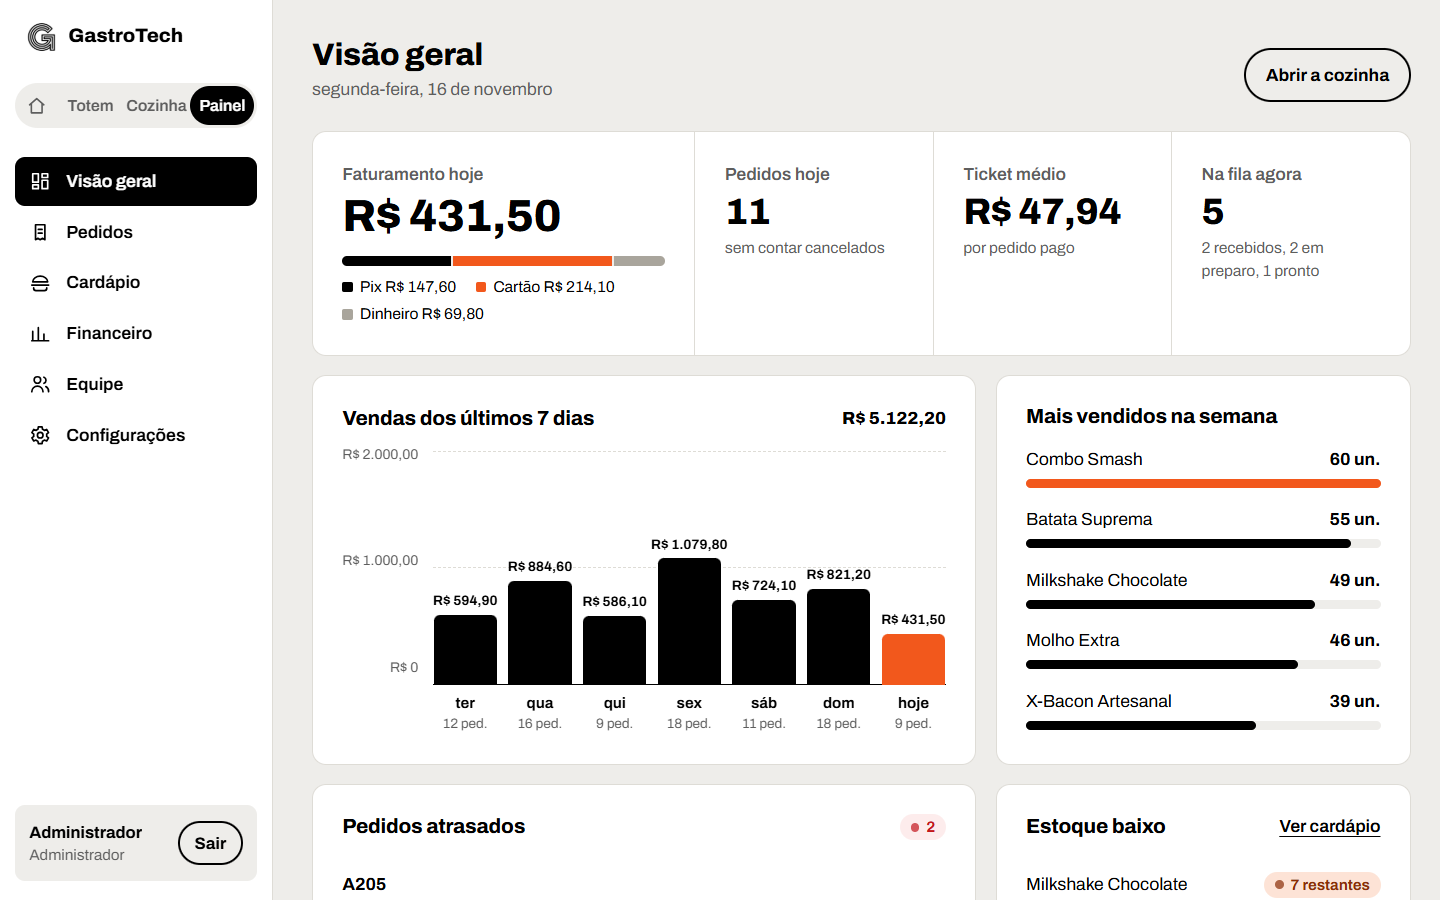
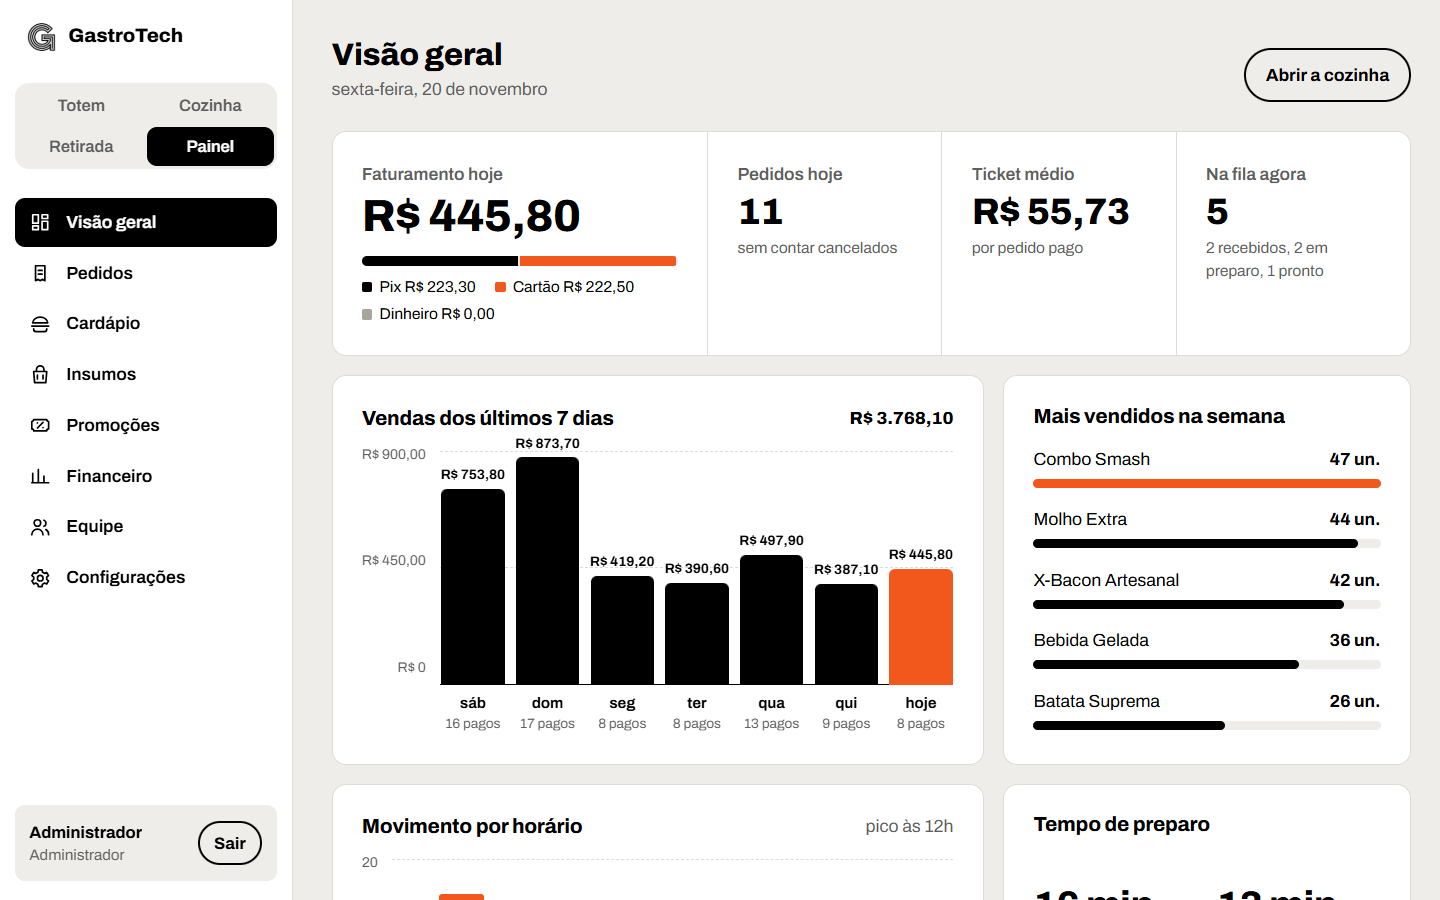
readme e desenho do banco com as novidades, botão de som mais curto

diff --git a/web/src/app/retirada/retirada.ts b/web/src/app/retirada/retirada.ts
@@ -27,7 +27,7 @@ import { Telas } from '../shared/telas';
             [class.alerta]="som.ligado() && som.bloqueado()"
             (click)="som.alternar()"
           >
-            {{ !som.ligado() ? 'Som desligado' : som.bloqueado() ? 'Toque para ativar o som' : 'Som ligado' }}
+            {{ !som.ligado() ? 'Som desligado' : som.bloqueado() ? 'Ativar som' : 'Som ligado' }}
           </button>
           <span class="relogio">{{ agora() | date: 'HH:mm' }}</span>
         </div>
@@ -80,7 +80,7 @@ import { Telas } from '../shared/telas';
     .marca h1 { font-size: 1.1rem; font-weight: 700; }
     .lado { display: flex; align-items: center; gap: var(--espaco-4); margin-left: auto; }
     .relogio { font-size: 1.1rem; font-weight: 700; font-variant-numeric: tabular-nums; }
-    .som { min-height: 2rem; padding: 0 var(--espaco-3); border: 1px solid #444; border-radius: 999px; background: none; color: #bdbdbd; font: inherit; font-size: 0.85rem; cursor: pointer; }
+    .som { white-space: nowrap; min-height: 2rem; padding: 0 var(--espaco-3); border: 1px solid #444; border-radius: 999px; background: none; color: #bdbdbd; font: inherit; font-size: 0.85rem; cursor: pointer; }
     .som:hover { color: var(--papel); border-color: #777; }
     .som.alerta { border-color: var(--brasa); background: var(--brasa); color: var(--tinta); animation: pisca 1.6s ease-in-out infinite; }
     @keyframes pisca { 50% { opacity: 0.6; } }

diff --git a/web/src/app/cozinha/cozinha.html b/web/src/app/cozinha/cozinha.html
@@ -26,17 +26,10 @@
         type="button"
         data-som
         [class.som-alerta]="som.chamando() || (som.ligado() && som.bloqueado())"
+        [title]="som.chamando() ? 'Chegou pedido novo. Toque em qualquer lugar pra parar o sino.' : som.bloqueado() ? 'O navegador só toca som depois de um toque na tela.' : ''"
         (click)="som.alternar()"
       >
-        {{
-          som.chamando()
-            ? 'Pedido novo! Toque para silenciar'
-            : !som.ligado()
-              ? 'Som desligado'
-              : som.bloqueado()
-                ? 'Toque para ativar o som'
-                : 'Som ligado'
-        }}
+        {{ som.chamando() ? 'Silenciar' : !som.ligado() ? 'Som desligado' : som.bloqueado() ? 'Ativar som' : 'Som ligado' }}
       </button>
       <span class="relogio">{{ agora() | date: 'HH:mm' }}</span>
       <button class="sair" type="button" (click)="sair()" [title]="sessao.usuario()?.nome ?? ''">Sair</button>

diff --git a/web/src/app/cozinha/cozinha.css b/web/src/app/cozinha/cozinha.css
@@ -111,6 +111,10 @@
   font-weight: 650;
 }
 
+.sair {
+  white-space: nowrap;
+}
+
 .som-alerta {
   background: var(--brasa);
   color: var(--tinta);

diff --git a/docs/banco.md b/docs/banco.md
@@ -11,6 +11,10 @@ erDiagram
     users |o--o{ caixas : "abre e fecha"
     caixas ||--o{ movimentos_caixa : tem
     users |o--o{ movimentos_caixa : registra
+    cupons |o--o{ pedidos : "usado em"
+    clientes |o--o{ pedidos : "junta selos"
+    produtos ||--o{ produto_insumo : "ficha técnica"
+    insumos ||--o{ produto_insumo : "vai em"
 
     categorias {
         id bigint PK
@@ -47,7 +51,13 @@ erDiagram
         status varchar
         status_pagamento varchar
         forma_pagamento varchar
+        consumo varchar
         subtotal decimal
+        desconto decimal
+        total decimal
+        cupom_id bigint FK
+        cliente_id bigint FK
+        avaliacao tinyint
         pago_em timestamp
         pronto_em timestamp
         finalizado_em timestamp
@@ -88,6 +98,35 @@ erDiagram
         descricao varchar
         valor decimal
     }
+    cupons {
+        id bigint PK
+        codigo varchar
+        tipo varchar
+        valor decimal
+        pedido_minimo decimal
+        validade date
+        limite_usos int
+        usos int
+        ativo boolean
+    }
+    clientes {
+        id bigint PK
+        telefone varchar
+        selos int
+        resgates int
+    }
+    insumos {
+        id bigint PK
+        nome varchar
+        unidade varchar
+        estoque decimal
+        estoque_minimo decimal
+    }
+    produto_insumo {
+        produto_id bigint FK
+        insumo_id bigint FK
+        quantidade decimal
+    }
     configuracoes {
         chave varchar PK
         valor text
@@ -107,4 +146,8 @@ As tabelas do próprio Laravel (`sessions`, `personal_access_tokens`, `cache`, `
 - **o `codigo` do pedido (A101, A102...) é gerado depois de salvar, a partir do id.** Na versão antiga era `MAX(id) + 1` e repetia quando dois totens pediam ao mesmo tempo
 - **o status do pedido e do pagamento são separados.** Um pedido pode estar pronto e ainda não pago (dinheiro no balcão)
 - **as personalizações são json.** Cada produto tem as suas (bebida do combo, ponto da carne, gelo...), então não fazia sentido uma tabela pra cada
+- **`subtotal` é a soma dos itens e `total` é o que o cliente pagou.** O financeiro soma o `total`, então desconto de cupom ou do cartão fidelidade já sai do faturamento
+- **o pedido guarda o código do cupom além do `cupom_id`.** Se o cupom for apagado, o histórico continua mostrando qual foi usado. Cupom que já foi usado não é apagado, só desativado
+- **o cartão fidelidade só guarda o celular.** Sem nome, sem CPF; no painel o número aparece escondido
+- **insumo tem estoque decimal** porque bacon é em gramas e sorvete em ml. O produto continua com o estoque próprio dele (bebida em lata, por exemplo), e o totem mostra o menor dos dois
 - **`configuracoes` é chave/valor** pra dar pra adicionar coisa nova (nome da loja, frase do totem, logo) sem mexer na estrutura

diff --git a/README.md b/README.md
@@ -18,10 +18,16 @@ Esse é o projeto integrador do meu 2º semestre de Sistemas de Informação no 
 
 ## O que tem
 
-- **Totem:** cardápio por categoria, personalização dos lanches (bebida do combo, ponto da carne...), pagamento por pix, cartão ou dinheiro e acompanhamento do pedido pelo código
-- **Cozinha:** fila com recebidos, em preparo e prontos, tempo de cada pedido, aviso de atraso e campainha quando chega pedido novo
-- **Retirada:** tela pra TV do balcão com os pedidos em preparo e os prontos; quando um fica pronto, o código aparece grande e toca a campainha
-- **Painel:** visão geral do dia, histórico de pedidos (dá pra cancelar por ali também), cadastro de produtos e categorias, financeiro com abertura e fechamento de caixa, equipe e configurações da loja
+- **Totem:** comer aqui ou para levar, cardápio por categoria, personalização dos lanches (bebida do combo, ponto da carne...), cupom de desconto, cartão fidelidade pelo celular, pagamento por pix, cartão ou dinheiro, comprovante impresso e acompanhamento do pedido pelo código (onde o cliente também avalia o pedido)
+- **Cozinha:** fila com recebidos, em preparo e prontos, tempo de cada pedido, aviso de atraso, comanda impressa e um sino que fica tocando até alguém ver o pedido novo
+- **Retirada:** tela pra TV do balcão com os pedidos em preparo e os prontos; quando um fica pronto, o código aparece grande e toca o sino
+- **Painel:**
+  - visão geral do dia com horário de pico, tempo real de preparo e nota dos clientes
+  - histórico de pedidos (dá pra cancelar por ali também)
+  - cardápio com ficha técnica: cada lanche gasta pão, carne, queijo... e o insumo tem estoque próprio
+  - promoções: cupons e o cartão fidelidade
+  - financeiro com abertura e fechamento de caixa e planilha das vendas pro contador
+  - equipe e configurações da loja
 - **Login da equipe** com papéis: cada pessoa só vê e mexe no que é da função dela
 
 ## O que mudou da versão antiga
